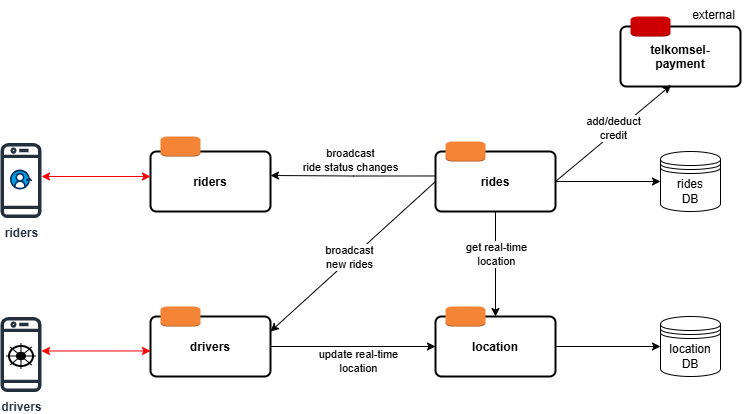
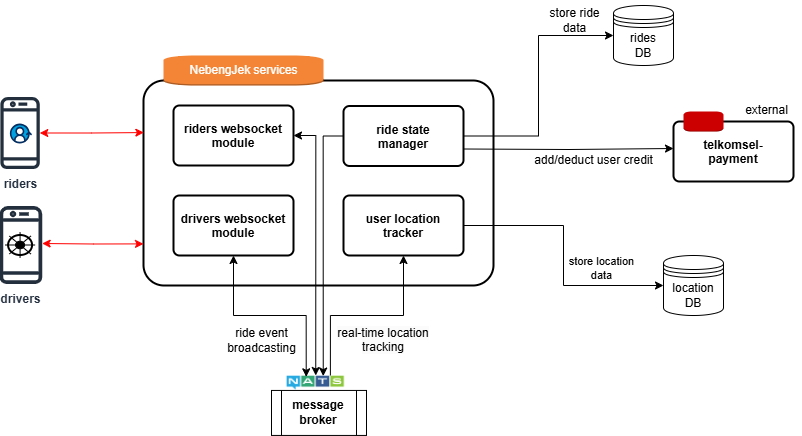
chore: update hld-lld, add postman alternative

diff --git a/README.md b/README.md
@@ -111,6 +111,8 @@ The API contract is in `openapi` format for REST API and `asyncapi` for websocke
 | 3  | Drivers  | [docs/contracts/nebengjek-websockets.asyncapi.yml](docs/contracts/nebengjek-websockets.asyncapi.yml) |
 | 4  | Riders   | [docs/contracts/nebengjek-websockets.asyncapi.yml](docs/contracts/nebengjek-websockets.asyncapi.yml) |
 
+Postman version: https://www.postman.com/ermasavior/nebengjek-public/overview
+
 ## Load Test
 
 The load test scenario will spawn a number of concurrent users that send requests on multiple stages. The load test target is GET ride data endpoint (with target of 200 Transaction per Second) PATCH driver availability endpoint (with target of 100 Transaction per Second). 
